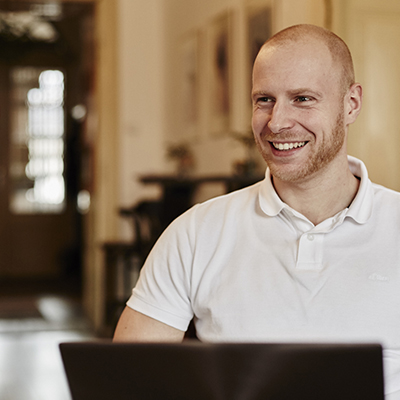
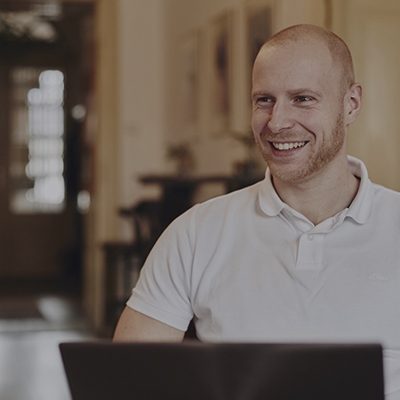
Updated images for better readabilility

diff --git a/index.html b/index.html
@@ -69,9 +69,9 @@
 				<aside id="partnersCarousel" class="carousel slide ">
 
 					<ol class="carousel-indicators">
-						<li data-slide-to="0" class="active"></li>
-						<li data-slide-to="1"></li>
-						<li data-slide-to="2"></li>
+						<li data-target="#partnersCarousel" data-slide-to="0" class="active"></li>
+						<li data-target="#partnersCarousel" data-slide-to="1"></li>
+						<li data-target="#partnersCarousel" data-slide-to="2"></li>
 					</ol>
 
 					<div class="carousel-inner">
